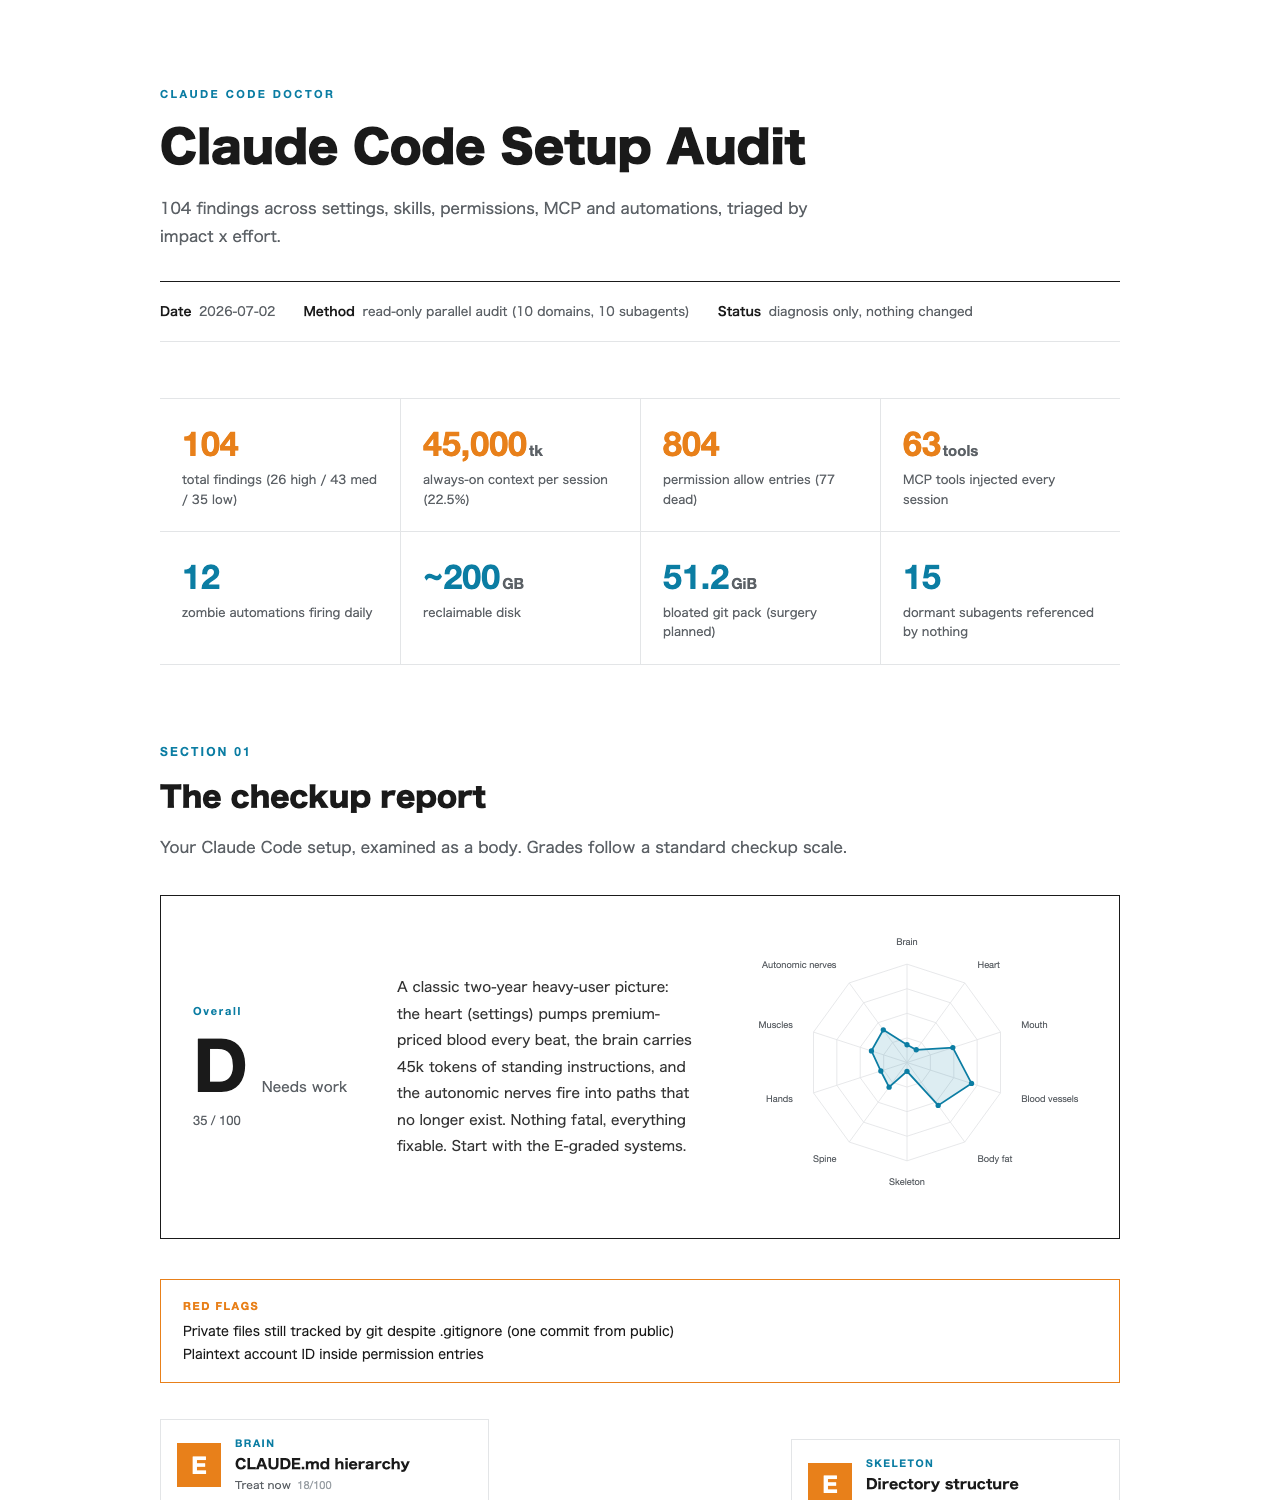
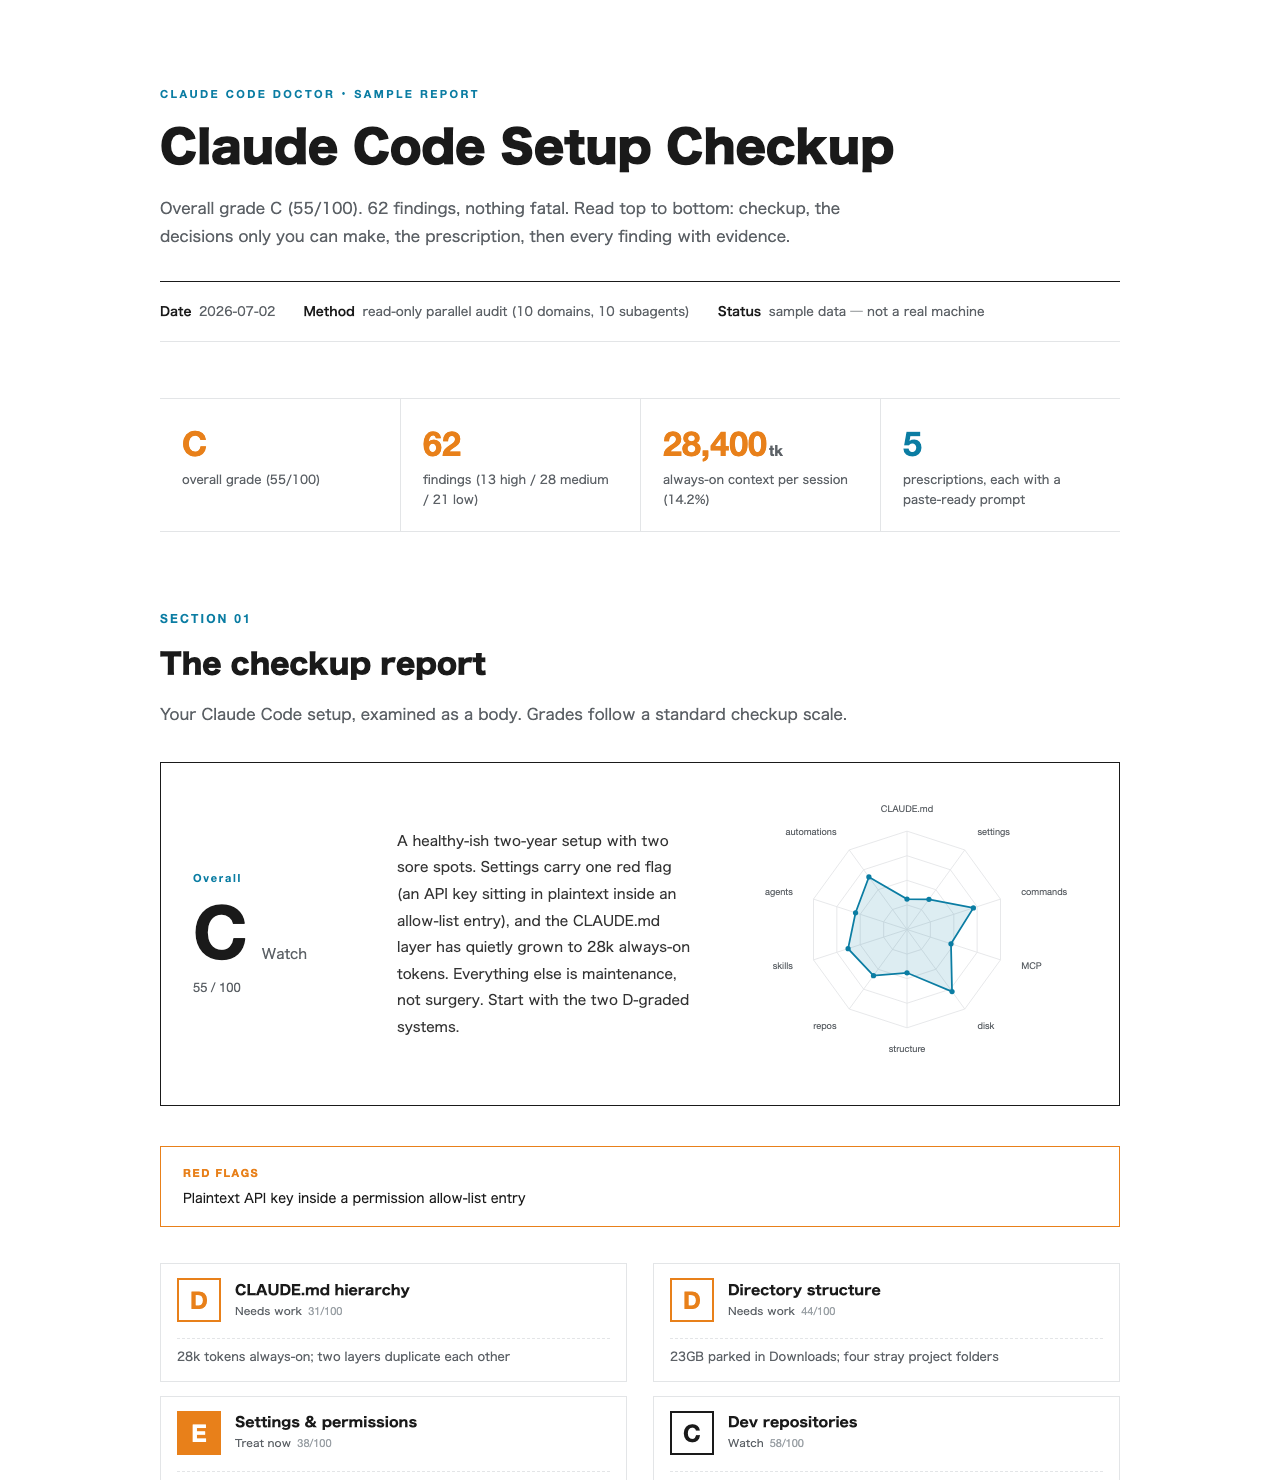
docs: fictional sample report in READMEs, feature the prescription section
- all example screenshots regenerated from fully fictional sample data
  (previous examples mirrored the author's real environment)
- new prescriptions.png showcasing RX cards with paste-ready prompts
- explicit note in both READMEs: screenshots are sample data, reports never
  leave your machine
- fix: octal-escape bug rendered the open-details marker as '2' instead of a
  minus sign

diff --git a/scripts/build_dashboard.py b/scripts/build_dashboard.py
@@ -330,7 +330,7 @@ pre.tree{font-family:"SF Mono",Menlo,monospace;font-size:12px;line-height:1.75;
 .rxprompt summary{font-size:12px;color:var(--sub);cursor:pointer;list-style:none}
 .rxprompt summary::-webkit-details-marker{display:none}
 .rxprompt summary::before{content:"+ ";color:var(--teal);font-weight:700}
-.rxprompt[open] summary::before{content:"\2212 "}
+.rxprompt[open] summary::before{content:"\\2212 "}
 .rxprompt pre{font-family:"SF Mono",Menlo,monospace;font-size:12px;line-height:1.8;
   background:var(--panel);border:1px solid var(--line);padding:16px 18px;
   white-space:pre-wrap;margin:10px 0 8px}

diff --git a/README.ja.md b/README.ja.md
@@ -65,13 +65,19 @@ read-onlyで私のClaude Code環境を監査して。承認前に変更禁止。
 
 ## 何が得られるか
 
+以下のスクリーンショットはすべて**架空のサンプルデータ**です。あなたのレポートはあなたのマシン上でローカル生成され、外には出ません。
+
 **人間ドックのような健診結果表。** 領域ごとに0〜100点のスコアとA〜E判定（A=異常なし〜E=要治療）、10軸のレーダーチャート。共有向けには任意で人体マップモード（CLAUDE.md=脳、settings=心臓の臓器比喩）も使えますが、既定は素の領域名です。平文の鍵や個人ファイルのgit追跡のような危険な所見は、点数に関係なく判定を強制的に落とす**レッドフラグ**として明示されます。採点モデルは [`references/scoring.md`](references/scoring.md) に全文書化:
 
-<img src="docs/examples/checkup.png" alt="健診結果: 総合判定D 35/100、10系統のレーダーチャート、レッドフラグ、臓器別判定付き人体マップ" width="100%">
+<img src="docs/examples/checkup.png" alt="サンプル健診結果: 総合判定C 55/100、10領域のレーダーチャート、レッドフラグ、領域別判定カード" width="100%">
+
+**診断だけでなく、処方箋。** すべての修正はアクションカードになっています: リスク3段階（安全/要注意/手術）・所要時間・期待効果、そして**コピーしてClaude Codeに貼るだけの実行プロンプト**。バックアップと隔離の手順が焼き込まれているので、貼ればその1件だけが安全に実行されます。チェックはブラウザに保存され、レポートがそのまま進捗表になります:
+
+<img src="docs/examples/prescriptions.png" alt="サンプル処方箋: フェーズ別のRXカード。1枚が開いておりコピー可能なプロンプトとリスク表示が見える" width="100%">
 
 **1枚のHTMLダッシュボード**。数字サマリ、あなたにしか決められない決定事項（OPTION A/B形式）、影響度×工数マトリクス、段階的修復プラン、全指摘の折りたたみ表示（事実＋提案のペア）:
 
-<img src="docs/examples/dashboard.png" alt="ダッシュボード例: 104件の数字サマリと決定事項セクション" width="100%">
+<img src="docs/examples/dashboard.png" alt="サンプルダッシュボード: 数字サマリと健診セクションの冒頭" width="100%">
 
 **サニタイズ済み共有カード**（任意）。パスを漏らさずに診断結果を自慢できます。実パスの自動マスク付き:
 

diff --git a/README.md b/README.md
@@ -67,13 +67,19 @@ or simply `/doctor`. The skill first confirms the scan scope and your **no-go pa
 
 ## What you get
 
+All report screenshots below show **fictional sample data** — your report is generated locally from your own machine and never leaves it.
+
 **A checkup report, like the one from your annual physical.** Each of the ten domains gets a 0-100 score and an A-E grade (A "healthy" through E "treat now"), plotted on a 10-axis radar chart. An optional body-map mode adds the organ metaphor (CLAUDE.md as the brain, settings as the heart) for shareable reports — plain domain names by default. Critical dangers — plaintext credentials, private files tracked by git — are **red flags** that force a failing grade no matter the arithmetic. The scoring model is fully documented in [`references/scoring.md`](references/scoring.md):
 
-<img src="docs/examples/checkup.png" alt="Checkup report: overall grade D 35/100, radar chart of ten body systems, red flags box, body map with per-organ grades" width="100%">
+<img src="docs/examples/checkup.png" alt="Sample checkup report: overall grade C 55/100, radar chart of ten domains, red flags box, per-domain grade cards" width="100%">
+
+**A prescription, not just a diagnosis.** Every fix ships as an action card: risk level (safe / careful / surgery), time estimate, expected effect, and a **ready-to-paste prompt** — copy it into Claude Code and exactly that one fix runs, with backup and quarantine baked in. Checkboxes persist in your browser, so the report doubles as your progress tracker:
+
+<img src="docs/examples/prescriptions.png" alt="Sample prescription section: RX cards grouped by phase, one opened showing a copyable prompt with risk chips and expected effect" width="100%">
 
 **A one-page HTML dashboard** — stat band, the decisions only you can make (as OPTION A/B), an impact-x-effort matrix, a phased fix plan, and every finding as collapsible evidence + proposal:
 
-<img src="docs/examples/dashboard.png" alt="Example dashboard: stat band with 104 findings, decisions section with A/B options" width="100%">
+<img src="docs/examples/dashboard.png" alt="Sample dashboard header: stat band and the start of the checkup section" width="100%">
 
 **Sanitized share cards** (optional) — brag about your findings without leaking your paths. Generated by the same scripts, with automatic path masking:
 